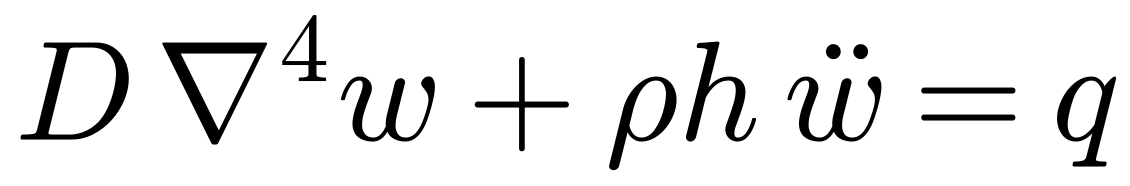
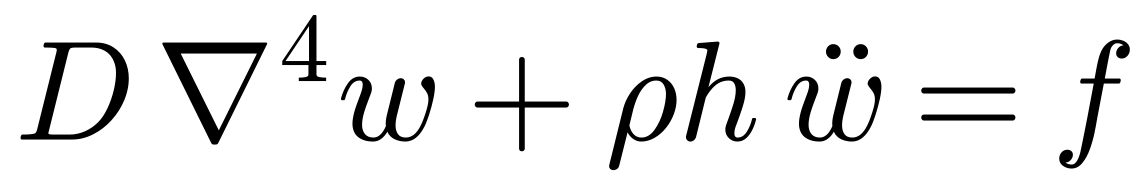
Short plate equation: load written as f
Claude-Session: https://claude.ai/code/session_01Xi6afoA5dMCYhCAXGZ3yMw

diff --git a/presentation_figures/kirchhoff_love_short_figure.py b/presentation_figures/kirchhoff_love_short_figure.py
@@ -12,7 +12,7 @@ import matplotlib.pyplot as plt
 
 import utils.plot_style  # noqa: F401
 
-EQ = r"$D\,\nabla^{4}w+\rho h\,\ddot{w}=q$"
+EQ = r"$D\,\nabla^{4}w+\rho h\,\ddot{w}=f$"
 fig = plt.figure(figsize=(5.2, 1.0))
 fig.text(0.5, 0.5, EQ, fontsize=34, ha="center", va="center")
 for ext, kw in (("png", dict(dpi=300)), ("pdf", {}), ("svg", {})):

diff --git a/presentation_figures/README.md b/presentation_figures/README.md
@@ -115,4 +115,4 @@ Script: `peak_schedule_comparison.py`. The checkpoints were identified by reprod
 
 | `plate_equation_kirchhoff_love` | the Kirchhoff-Love thin plate equation D nabla^4 w + rho h d^2w/dt^2 = q, the expansion of nabla^4 and D, with the meaning of each symbol; script `kirchhoff_love_equation_figure.py` |
 
-| `plate_equation_short` (and `_transparent`) | the Kirchhoff-Love plate equation in short form, D nabla^4 w + rho h w'' = q, bare like the Helmholtz equation on the approaches slide; script `kirchhoff_love_short_figure.py` |
+| `plate_equation_short` (and `_transparent`) | the Kirchhoff-Love plate equation in short form, D nabla^4 w + rho h w'' = f, bare like the Helmholtz equation on the approaches slide; script `kirchhoff_love_short_figure.py` |
